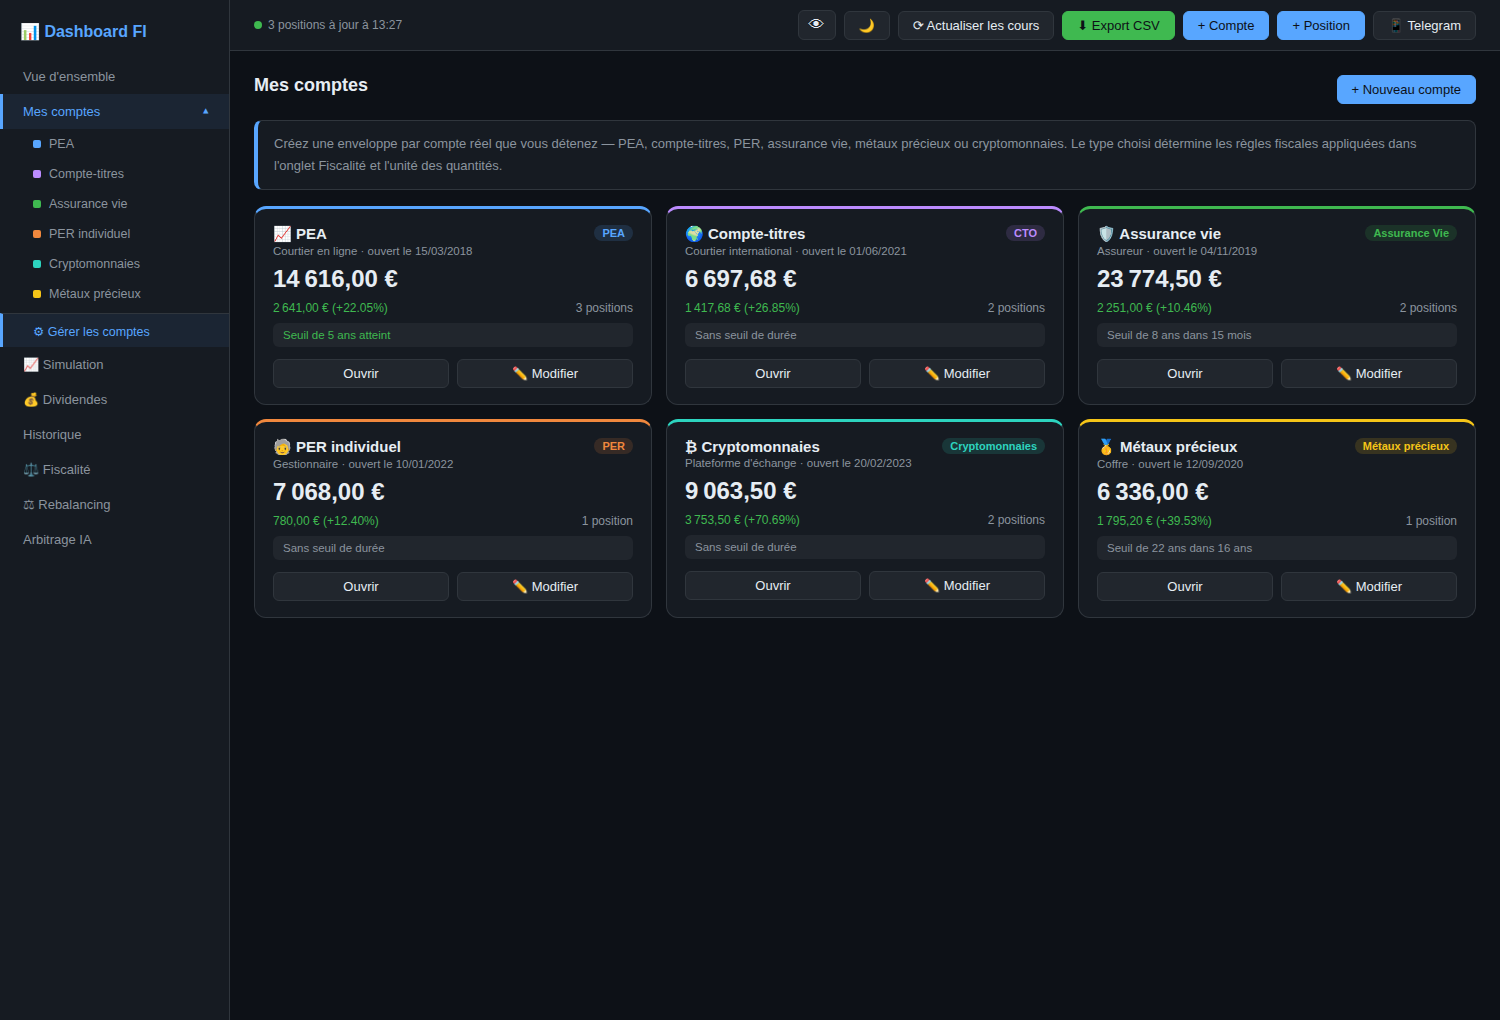
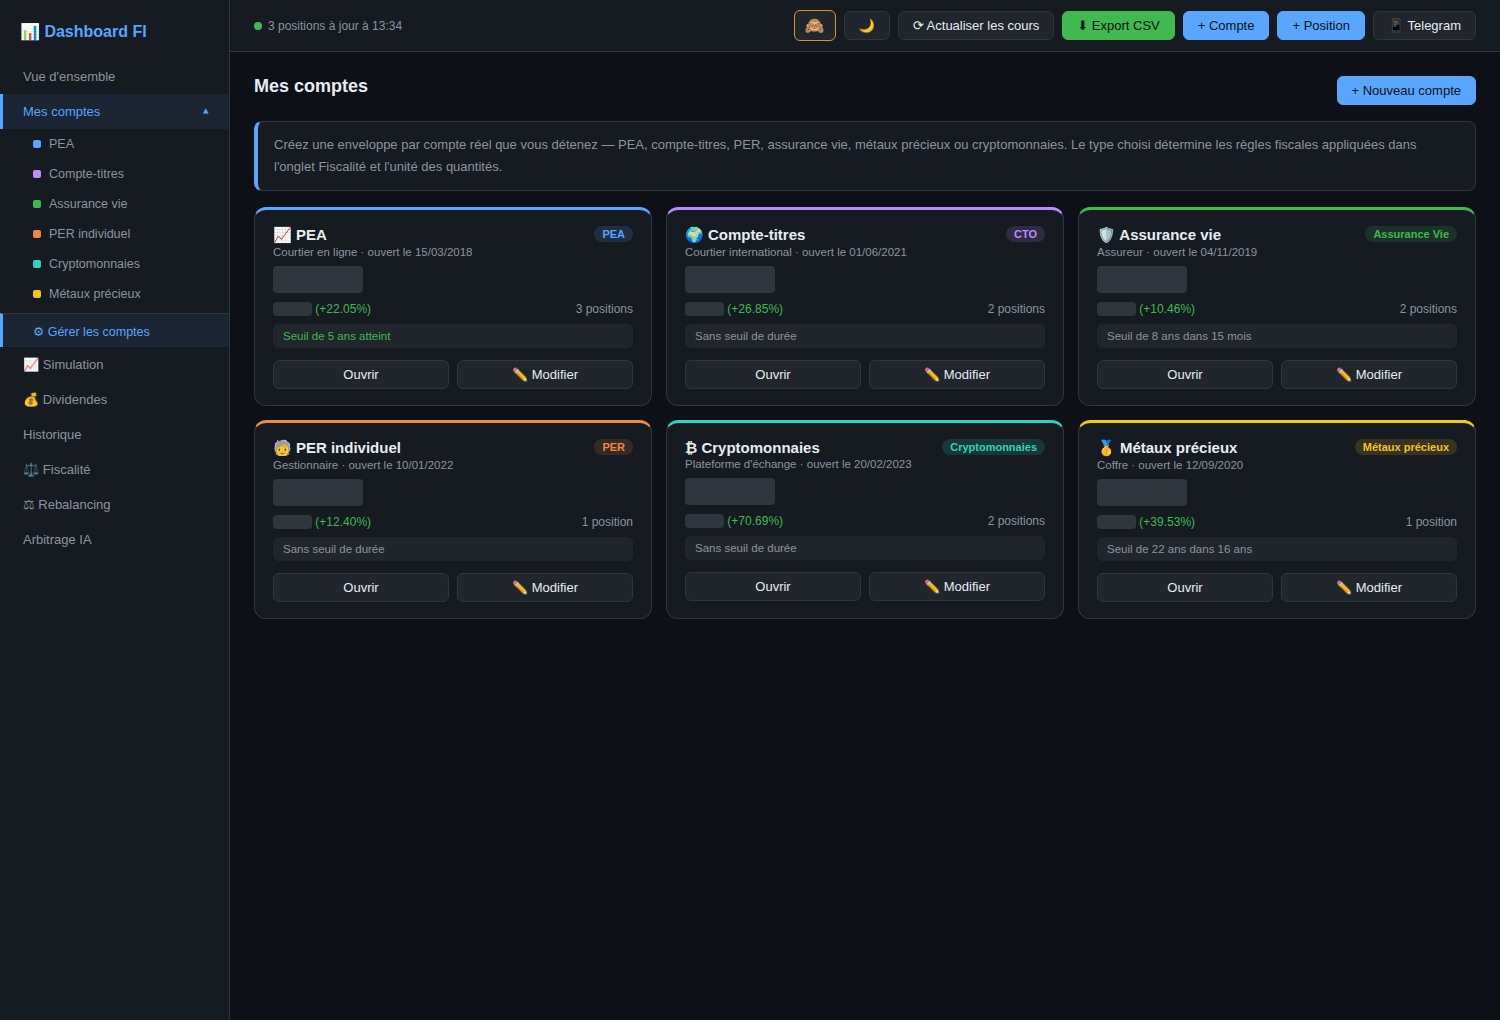
Étend le masquage des montants aux graphiques, et masque ceux des captures
Le bouton « masquer les montants » ne couvrait que les cartes et les tableaux :
les axes et les infobulles des graphiques continuaient d'afficher les valeurs en
euros. Ils passent désormais par le même formateur.

Les captures du README sont reprises avec le masquage actif : les montants n'y
apparaissent plus, même s'ils proviennent du portefeuille de démonstration.

Claude-Session: https://claude.ai/code/session_01UwXnP3pYjr2uHhzv5f6foG

diff --git a/static/js/overview.js b/static/js/overview.js
@@ -1,6 +1,6 @@
 import { typeInfo, comptes, toutesPositions, totalPortefeuille, investiPortefeuille } from './state.js';
 import { chartColors } from './theme.js';
-import { fmt, fmtN, fmtP, cls, kpiCard, destroyChart, makeChart } from './core.js';
+import { fmt, fmtP, cls, kpiCard, destroyChart, makeChart, fmtChart } from './core.js';
 import { couleursComptes, couleurIndex, alpha } from './colors.js';
 
 const ID_CHARTS = ['chartAlloc', 'chartType', 'chartPerf', 'chartTop10', 'chartSecteur', 'chartGeo'];
@@ -52,7 +52,7 @@ export function renderOverview() {
         callbacks: {
           label: ctx => {
             const somme = ctx.dataset.data.reduce((a, b) => a + b, 0);
-            return ` ${fmtN(ctx.raw)} € (${somme ? (ctx.raw / somme * 100).toFixed(1) : 0} %)`;
+            return ` ${fmtChart(ctx.raw)} (${somme ? (ctx.raw / somme * 100).toFixed(1) : 0} %)`;
           },
         },
       },
@@ -128,10 +128,10 @@ export function renderOverview() {
       responsive: true, maintainAspectRatio: false, indexAxis: 'y',
       plugins: {
         legend: { display: false },
-        tooltip: { callbacks: { label: ctx => ` ${fmtN(ctx.raw)} € — ${top[ctx.dataIndex]._compte.nom}` } },
+        tooltip: { callbacks: { label: ctx => ` ${fmtChart(ctx.raw)} — ${top[ctx.dataIndex]._compte.nom}` } },
       },
       scales: {
-        x: { grid: { color: chartColors().grid }, ticks: { color: chartColors().muted, callback: v => fmtN(v) + '€' } },
+        x: { grid: { color: chartColors().grid }, ticks: { color: chartColors().muted, callback: fmtChart } },
         y: { grid: { display: false }, ticks: { color: chartColors().muted, font: { size: 11 } } },
       },
     },

diff --git a/static/js/dividendes.js b/static/js/dividendes.js
@@ -1,6 +1,6 @@
 import { Store, typeInfo, comptes, compteById } from './state.js';
 import { api } from './api.js';
-import { fmt, esc, kpiCard, badgeType, destroyChart, makeChart, parseNum } from './core.js';
+import { fmt, esc, kpiCard, badgeType, destroyChart, makeChart, parseNum, fmtChart } from './core.js';
 import { chartColors } from './theme.js';
 
 let dividendeEnEdition = null;
@@ -136,7 +136,7 @@ export async function loadDividendes() {
         plugins: { legend: { display: false } },
         scales: {
           x: { grid: { color: chartColors().grid }, ticks: { color: chartColors().muted, maxRotation: 45 } },
-          y: { grid: { color: chartColors().grid }, ticks: { color: chartColors().muted, callback: v => v + ' €' } },
+          y: { grid: { color: chartColors().grid }, ticks: { color: chartColors().muted, callback: fmtChart } },
         },
       },
     });
@@ -160,7 +160,7 @@ export async function loadDividendes() {
         plugins: { legend: { position: 'bottom', labels: { color: chartColors().muted, boxWidth: 12 } } },
         scales: {
           x: { grid: { color: chartColors().grid }, ticks: { color: chartColors().muted } },
-          y: { grid: { color: chartColors().grid }, ticks: { color: chartColors().muted, callback: v => v + ' €' } },
+          y: { grid: { color: chartColors().grid }, ticks: { color: chartColors().muted, callback: fmtChart } },
         },
       },
     });

diff --git a/static/js/simulation.js b/static/js/simulation.js
@@ -1,5 +1,5 @@
 import { totalPortefeuille, investiPortefeuille } from './state.js';
-import { fmt, fmtN, fmtP, cls, kpiCard, makeChart } from './core.js';
+import { fmt, fmtP, cls, kpiCard, makeChart, fmtChart } from './core.js';
 import { chartColors } from './theme.js';
 
 export function setSimReturn(valeur) {
@@ -68,11 +68,11 @@ export function simUpdate() {
       interaction: { mode: 'index', intersect: false },
       plugins: {
         legend: { position: 'bottom', labels: { color: chartColors().muted, boxWidth: 14, usePointStyle: true, pointStyle: 'line' } },
-        tooltip: { callbacks: { label: ctx => ` ${ctx.dataset.label} : ${fmtN(ctx.raw)} €` } },
+        tooltip: { callbacks: { label: ctx => ` ${ctx.dataset.label} : ${fmtChart(ctx.raw)}` } },
       },
       scales: {
         x: { grid: { color: chartColors().grid }, ticks: { color: chartColors().muted, maxTicksLimit: 10 } },
-        y: { grid: { color: chartColors().grid }, ticks: { color: chartColors().muted, callback: v => v >= 1e6 ? +(v / 1e6).toFixed(2) + 'M €' : fmtN(v) + '€' } },
+        y: { grid: { color: chartColors().grid }, ticks: { color: chartColors().muted, callback: fmtChart } },
       },
     },
   });

diff --git a/static/js/history.js b/static/js/history.js
@@ -1,6 +1,6 @@
 import { Store, comptes } from './state.js';
 import { api } from './api.js';
-import { fmtN, esc, destroyChart, makeChart, messageCanvas } from './core.js';
+import { fmtN, esc, destroyChart, makeChart, messageCanvas, fmtChart } from './core.js';
 import { chartColors } from './theme.js';
 import { couleursComptes, couleurIndex } from './colors.js';
 
@@ -90,11 +90,11 @@ export function renderHistory() {
     interaction: { mode: 'index', intersect: false },
     plugins: {
       legend: { position: 'bottom', labels: { color: chartColors().muted, boxWidth: 12, pointStyle: 'line', usePointStyle: true } },
-      tooltip: { callbacks: { label: ctx => ` ${ctx.dataset.label} : ${fmtN(ctx.raw)} €` } },
+      tooltip: { callbacks: { label: ctx => ` ${ctx.dataset.label} : ${fmtChart(ctx.raw)}` } },
     },
     scales: {
       x: { grid: { color: chartColors().grid }, ticks: { color: chartColors().muted, maxTicksLimit: 8 } },
-      y: { grid: { color: chartColors().grid }, ticks: { color: chartColors().muted, callback: v => fmtN(v) + '€' } },
+      y: { grid: { color: chartColors().grid }, ticks: { color: chartColors().muted, callback: fmtChart } },
     },
   };
 

diff --git a/static/js/core.js b/static/js/core.js
@@ -92,6 +92,13 @@ export const fmt = v => {
 export const fmtN = v => v == null ? '—'
   : new Intl.NumberFormat('fr-FR', { minimumFractionDigits: 2, maximumFractionDigits: 2 }).format(v);
 
+/** Montant affiché dans un graphique (axe ou infobulle) : suit le bouton « masquer ». */
+export const fmtChart = v => {
+  if (v == null) return '—';
+  if (Store.amountsHidden) return '•••';
+  return v >= 1e6 ? `${+(v / 1e6).toFixed(2)} M €` : `${fmtN(v)} €`;
+};
+
 export const fmtP = v => v == null ? '—' : (v >= 0 ? '+' : '') + (v * 100).toFixed(2) + '%';
 
 export const cls = v => v > 0 ? 'pos' : v < 0 ? 'neg' : 'neu';
